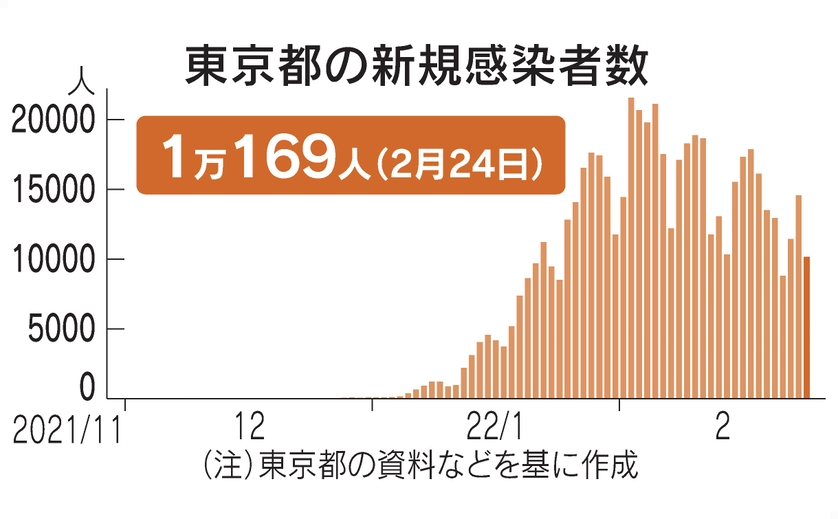
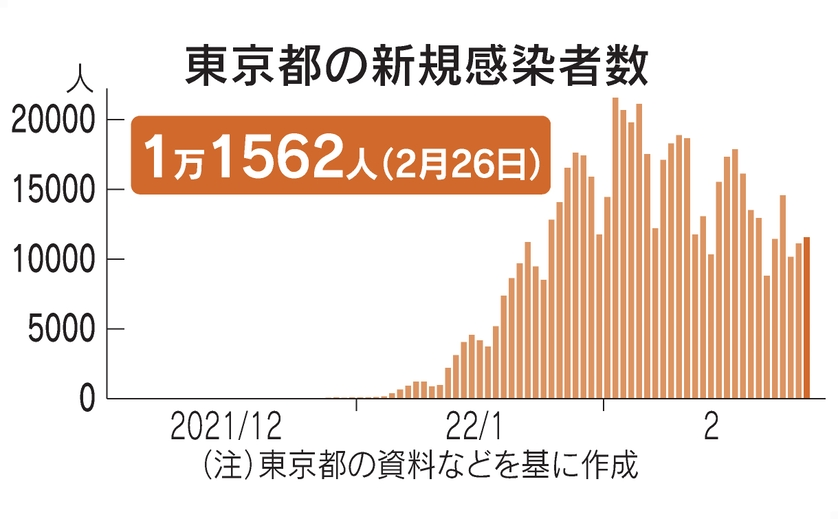
regular update

diff --git a/parts/news.php b/parts/news.php
@@ -40,6 +40,45 @@
         </li> 
 
     <hr> -->
+         2022年02月26日
+    
+        <li>
+                <i class="far fa-file-alt"></i>
+                <a href="https://www.nikkei.com/article/DGXZQOCC262KX0W2A220C2000000/" target="blank" rel="noopener">
+                東京都、新たに1万1562人感染　7日平均で前週の77.7%</a>
+        </li>
+         <li>
+                <i class="far fa-file-alt"></i>
+                <a href="https://www.nikkei.com/article/DGXZQOUF169SN0W2A210C2000000/" target="blank" rel="noopener">
+                コロナ症状、脳にも飛び火　うつ発症の一因も</a>
+        </li>
+        <li>
+                <i class="far fa-file-alt"></i>
+                <a href="https://www.nikkei.com/article/DGXZQOUF2561B0V20C22A2000000/" target="blank" rel="noopener">
+                コロナ薬、日本勢ようやく実用化段階　塩野義や田辺三菱
+</a>
+        </li> 
+
+    <hr>
+         2022年02月25日
+    
+        <li>
+                <i class="far fa-file-alt"></i>
+                <a href="https://www.nikkei.com/article/DGXZQOCC250DA0V20C22A2000000/" target="blank" rel="noopener">
+                東京都、新たに1万1125人感染　7日平均で前週の80.9%</a>
+        </li>
+         <li>
+                <i class="far fa-file-alt"></i>
+                <a href="https://www.nikkei.com/article/DGXZQOCC2538U0V20C22A2000000/" target="blank" rel="noopener">
+                東京都、発熱外来すべて公表　オミクロン派生型30件確認</a>
+        </li>
+        <li>
+                <i class="far fa-file-alt"></i>
+                <a href="https://www.nikkei.com/article/DGXZQOUA24CO90U2A220C2000000/" target="blank" rel="noopener">
+                コロナとインフル比較「近いうちに見解」　厚労省専門家</a>
+        </li> 
+
+    <hr>
          2022年02月24日
     
         <li>
